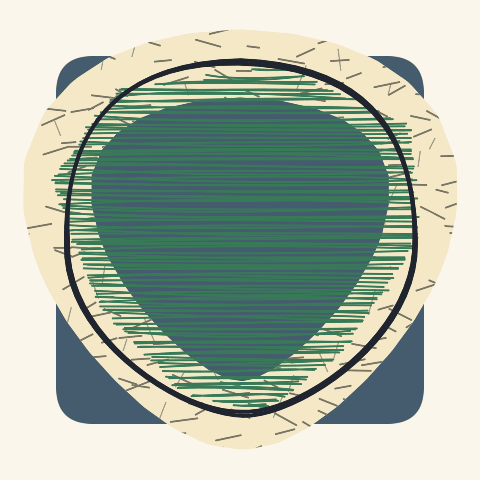
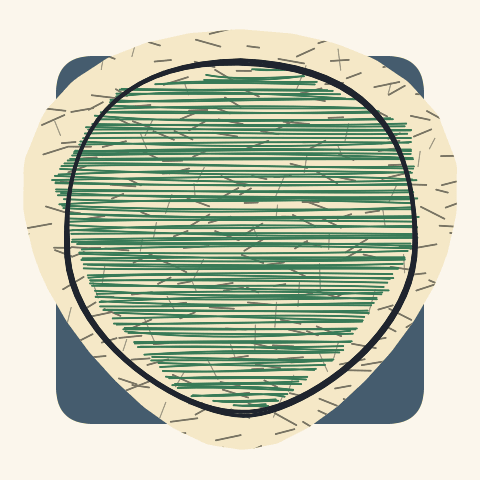
Close fully smooth sticker sheets at the join
Continuous eggs and ellipses return to their start without a Close
operation. The backing stroked that loop as an open ribbon, so the
caps met on the right edge and left an inward notch. A contour that
meets itself is now a filled sheet. Fully smooth offsets along the
normal, and the preview egg checks that the right edge does not dip.

Changed region(s): [[0.1875, 0.1875, 0.8125, 0.8125], [0.875, 0.5, 0.9062, 0.5312], [0.8125, 0.5312, 0.8438, 0.5625]]

diff --git a/Tests/SketchyTests/Rendering/StickerBackingTests.swift b/Tests/SketchyTests/Rendering/StickerBackingTests.swift
@@ -319,6 +319,64 @@ final class StickerBackingTests: XCTestCase {
         XCTAssertEqual(isolatedFacets(turningSamples(try backedStar(.fullySmooth()), spacing: 6)), 0)
     }
 
+    /// The fully smooth preview egg grew an inward bite on the right edge,
+    /// at the cubic seam. A narrow radial dip there must stay gone.
+    func testFullySmoothEggHasNoRightSideNotch() throws {
+        var options = Options()
+        options.roughness = 1.45
+        options.maxRandomnessOffset = 2.4
+        options.bowing = 1
+        options.seed = 17
+        options.strokeWidth = 2
+        options.fillStyle = .hachure
+        options.fillAngle = 0
+        options.fillSpacing = 3
+        options.stickerBacking = StickerBacking(width: 22, smoothness: 1, edge: .fullySmooth())
+        let size = CGSize(width: 240, height: 300)
+        let shape = EggShape(x: 100, y: 112, width: 86, height: 124, tilt: 0.42)
+        let drawing = try drawing(shape, options: options, size: size)
+        let commands = SwiftUIRenderer().commands(for: drawing, options: options, in: size)
+        let paper = try XCTUnwrap(commands.first)
+        guard case .fill = paper.style else {
+            return XCTFail("fully smooth egg should be a filled sheet, not an open ribbon with a cap seam")
+        }
+        let path = paper.path
+        let dip = narrowRadialDip(path, shoulder: 0.18)
+        let reversal = rightSilhouetteReversal(path)
+        XCTAssertLessThan(dip, 1.25, "right-side notch is \(dip) points deep")
+        XCTAssertLessThan(reversal, 1.25, "right-edge shelf is \(reversal) points")
+        XCTAssertEqual(isolatedFacets(turningSamples(path, spacing: 4)), 0)
+    }
+
+    /// Fully smooth compound shapes keep an open hole and a continuous outer edge.
+    func testFullySmoothCompoundKeepsHoleAndContinuousEdge() throws {
+        var options = Options()
+        options.roughness = 1.2
+        options.seed = 9
+        options.strokeWidth = 2
+        options.fill = .clear
+        options.stickerBacking = StickerBacking(width: 12, smoothness: 0.9, edge: .fullySmooth())
+        let size = CGSize(width: 180, height: 180)
+        let shape = Sketchy.Path(d: "M16 16 H144 V144 H16 Z M50 50 H110 V110 H50 Z")
+        let drawing = try drawing(shape, options: options, size: size)
+        let commands = SwiftUIRenderer().commands(for: drawing, options: options, in: size)
+        let paper = try XCTUnwrap(commands.first)
+        guard case .fill = paper.style else {
+            return XCTFail("fully smooth compound backing should be one filled sheet")
+        }
+        XCTAssertNil(commands.first?.clipPath)
+        XCTAssertGreaterThan(elementKinds(paper.path).curves, 8)
+        let bounds = paper.path.boundingRect
+        let hole = CGPoint(x: bounds.midX, y: bounds.midY)
+        XCTAssertFalse(paper.path.cgPath.contains(hole, using: .evenOdd), "the compound hole should stay open")
+        XCTAssertTrue(
+            paper.path.cgPath.contains(CGPoint(x: bounds.minX + 18, y: bounds.midY), using: .evenOdd)
+        )
+        let outer = firstSubpath(paper.path)
+        XCTAssertEqual(isolatedFacets(turningSamples(outer, spacing: 6)), 0)
+        XCTAssertLessThan(rightSilhouetteReversal(outer), 2.5)
+    }
+
     func testTextureIsSeededClippedAndOptional() throws {
         let size = CGSize(width: 180, height: 160)
         var options = cleanOptions()
@@ -525,6 +583,121 @@ final class StickerBackingTests: XCTestCase {
             }
         }
         return (lines, curves)
+    }
+
+    private func firstSubpath(_ path: SwiftUI.Path) -> SwiftUI.Path {
+        var subpath = SwiftUI.Path()
+        var started = false
+        var done = false
+        path.cgPath.applyWithBlock { element in
+            if done { return }
+            let values = element.pointee.points
+            switch element.pointee.type {
+            case .moveToPoint:
+                if started {
+                    done = true
+                    return
+                }
+                subpath.move(to: values[0])
+                started = true
+            case .addLineToPoint:
+                subpath.addLine(to: values[0])
+            case .addQuadCurveToPoint:
+                subpath.addQuadCurve(to: values[1], control: values[0])
+            case .addCurveToPoint:
+                subpath.addCurve(to: values[2], control1: values[0], control2: values[1])
+            case .closeSubpath:
+                subpath.closeSubpath()
+                done = true
+            default:
+                break
+            }
+        }
+        return subpath
+    }
+
+    /// How far a sample sits inside both nearby shoulders. A broad valley
+    /// stays near 0. A narrow inward notch, such as the egg's right-edge cusp, does not.
+    private func narrowRadialDip(_ path: SwiftUI.Path, shoulder: CGFloat) -> CGFloat {
+        let points = resampled(path.cgPath, spacing: 3)
+        guard points.count >= 12 else { return 0 }
+        let center = points.reduce(CGPoint.zero) { partial, point in
+            CGPoint(x: partial.x + point.x, y: partial.y + point.y)
+        }
+        let count = CGFloat(points.count)
+        let origin = CGPoint(x: center.x / count, y: center.y / count)
+        let polar = points.map { point -> (angle: CGFloat, radius: CGFloat) in
+            (
+                atan2(point.y - origin.y, point.x - origin.x),
+                hypot(point.x - origin.x, point.y - origin.y)
+            )
+        }
+        func radius(near angle: CGFloat) -> CGFloat {
+            var best = polar[0]
+            var bestGap = CGFloat.greatestFiniteMagnitude
+            for sample in polar {
+                var gap = abs(sample.angle - angle)
+                if gap > .pi { gap = 2 * .pi - gap }
+                if gap < bestGap {
+                    bestGap = gap
+                    best = sample
+                }
+            }
+            return best.radius
+        }
+        var worst: CGFloat = 0
+        for sample in polar where abs(sample.angle) < 0.55 {
+            let left = radius(near: sample.angle - shoulder)
+            let right = radius(near: sample.angle + shoulder)
+            let dip = min(left, right) - sample.radius
+            worst = max(worst, dip)
+        }
+        return worst
+    }
+
+    /// Outward step of the right silhouette away from its single widest point.
+    /// A convex cutout is unimodal in x. The egg's seam shelf rises again after the peak.
+    private func rightSilhouetteReversal(_ path: SwiftUI.Path) -> CGFloat {
+        let points = resampled(path.cgPath, spacing: 2)
+        guard points.count >= 12 else { return 0 }
+        let origin = points.reduce(CGPoint.zero) { partial, point in
+            CGPoint(x: partial.x + point.x, y: partial.y + point.y)
+        }
+        let count = CGFloat(points.count)
+        let center = CGPoint(x: origin.x / count, y: origin.y / count)
+        let right = points.filter { $0.x > center.x + 6 }
+        guard right.count >= 8 else { return 0 }
+        let minY = right.map(\.y).min() ?? 0
+        let maxY = right.map(\.y).max() ?? 0
+        let bin: CGFloat = 3
+        var silhouette: [CGFloat] = []
+        var y = minY
+        while y <= maxY {
+            let band = right.filter { abs($0.y - y) <= bin * 0.5 }
+            if let edge = band.map(\.x).max() {
+                silhouette.append(edge)
+            }
+            y += bin
+        }
+        guard silhouette.count >= 5, let peak = silhouette.indices.max(by: { silhouette[$0] < silhouette[$1] }) else {
+            return 0
+        }
+        var worst: CGFloat = 0
+        var low = silhouette[peak]
+        if peak + 1 < silhouette.count {
+            for index in (peak + 1)..<silhouette.count {
+                low = min(low, silhouette[index])
+                worst = max(worst, silhouette[index] - low)
+            }
+        }
+        low = silhouette[peak]
+        if peak > 0 {
+            for index in stride(from: peak - 1, through: 0, by: -1) {
+                low = min(low, silhouette[index])
+                worst = max(worst, silhouette[index] - low)
+            }
+        }
+        return worst
     }
 
     /// A kink with straight neighbors is a polygon vertex. A smooth curve is not.

diff --git a/Sources/Sketchy/Render/StickerBackingBuilder.swift b/Sources/Sketchy/Render/StickerBackingBuilder.swift
@@ -201,16 +201,29 @@ enum StickerBackingBuilder {
             let signed = nestingDepth(index, in: rings).isMultiple(of: 2) ? outward : -outward
             let coverageBase = line.source.count >= 3 ? line.source : line.points
             let coverage = offsetClosed(coverageBase, by: signed)
-            var source = line.points
             if case .continuous(let radius) = finish {
-                source = continuousOutline(source, closed: true, radius: radius)
+                // Mitered edge intersections fold a concave sample into an
+                // inward spike. The egg's right-hand cubic join is that
+                // sample. Offset along the normal instead, then blur so the
+                // tangent stays continuous, including across the seam.
+                let smoothed = continuousOutline(line.points, closed: true, radius: radius)
+                var ring = normalOffset(smoothed, distance: signed)
+                let polish = radius > 0 ? min(18, max(12, radius * 0.5)) : 14
+                ring = continuousOutline(ring, closed: true, radius: polish)
+                // Blur before the coverage scale. A blur after the scale
+                // pulls the widest points back in and can uncover the art.
+                ring = continuousOutline(ring, closed: true, radius: 10)
+                if let coverage {
+                    ring = expandToCover(coverage, ring)
+                }
+                offsets.append(ring)
+                continue
             }
-            guard var ring = offsetClosed(source, by: signed) else {
+            guard var ring = offsetClosed(line.points, by: signed) else {
                 failed = true
                 break
             }
-            switch finish {
-            case .torn(let tear):
+            if case .torn(let tear) = finish {
                 ring = choppedOffset(
                     ring,
                     depth: tear.depth,
@@ -218,16 +231,6 @@ enum StickerBackingBuilder {
                     jaggedness: tear.jaggedness,
                     seed: tear.seed &+ UInt64(index)
                 )
-            case .continuous(let radius):
-                // A short pass removes the offset's miter nubs without
-                // pulling the margin back onto the ink.
-                let polish = radius > 0 ? min(10, max(5, radius * 0.3)) : 7
-                ring = continuousOutline(ring, closed: true, radius: polish)
-                if let coverage {
-                    ring = expandToCover(coverage, ring)
-                }
-            case .corners:
-                break
             }
             offsets.append(ring)
         }
@@ -741,6 +744,20 @@ enum StickerBackingBuilder {
         return scaled(high * 1.02)
     }
 
+    /// Moves each sample along its outward normal. Unlike a miter join, a
+    /// concave sample stays on the outside of the curve instead of folding in.
+    private static func normalOffset(_ points: [CGPoint], distance: CGFloat) -> [CGPoint] {
+        let ring = clean(points, dropClosingDuplicate: true)
+        guard ring.count >= 3 else { return points }
+        let normals = outwardNormals(ring, closed: true)
+        return zip(ring, normals).map { point, normal in
+            CGPoint(
+                x: point.x + normal.x * distance,
+                y: point.y + normal.y * distance
+            )
+        }
+    }
+
     /// Puts the blurred ring back at the source ring's average size.
     private static func restoreMeanRadius(_ points: [CGPoint], matching target: [CGPoint]) -> [CGPoint] {
         let origin = centroid(points)
@@ -807,7 +824,12 @@ enum StickerBackingBuilder {
                 wrapped = next
             }
             let hop = distance(points[cursor], points[wrapped])
-            if hop < 1e-4 { break }
+            if hop < 1e-4 {
+                // A repeated seam sample must not end the circular walk.
+                // Stopping here smooths only one side of the join and leaves a cusp.
+                cursor = wrapped
+                continue
+            }
             traveled += hop
             if traveled > radius { break }
             add(wrapped, traveled)
@@ -966,6 +988,12 @@ enum StickerBackingBuilder {
         }
         if !closed, let last = source.last, distance(result[result.count - 1], last) > spacing * 0.35 {
             result.append(last)
+        }
+        if closed, result.count >= 3 {
+            let gap = distance(result[result.count - 1], result[0])
+            if gap < spacing * 0.45 {
+                result.removeLast()
+            }
         }
         return result.count >= 2 ? result : points
     }
@@ -1327,9 +1355,23 @@ private final class PathWalker {
     }
 
     func finishOpen() {
-        if current.count >= 2 {
-            pieces.append(.init(points: current, closed: false))
+        guard current.count >= 2 else {
+            current = []
+            return
         }
+        // Continuous eggs and ellipses return to the start point without a
+        // Close operation. Stroking that as an open ribbon leaves two caps
+        // at the join, which reads as a notch. A contour that meets itself
+        // is a sheet.
+        if current.count >= 3, let first = current.first, let last = current.last {
+            let gap = hypot(last.x - first.x, last.y - first.y)
+            if gap <= 1.25 {
+                pieces.append(.init(points: current, closed: true))
+                current = []
+                return
+            }
+        }
+        pieces.append(.init(points: current, closed: false))
         current = []
     }
 

diff --git a/Tests/SketchyTests/Rendering/StickerBackingPreviewTests.swift b/Tests/SketchyTests/Rendering/StickerBackingPreviewTests.swift
@@ -33,6 +33,7 @@ final class StickerBackingPreviewTests: XCTestCase {
         try write(edgeModes, name: "sticker-egg-fully-smooth.png", width: 1040, height: 520, to: directory)
         try write(fullEgg, name: "sticker-fully-smooth-egg-closeup.png", width: 760, height: 900, to: directory)
         try write(starModes, name: "sticker-fully-smooth-star.png", width: 860, height: 520, to: directory)
+        try write(smoothCompound, name: "sticker-fully-smooth-compound.png", width: 860, height: 520, to: directory)
     }
 
     private var starCard: some View {
@@ -304,6 +305,30 @@ final class StickerBackingPreviewTests: XCTestCase {
                     .frame(width: 240, height: 300)
                     .scaleEffect(2.15)
                     .frame(width: 640, height: 700)
+            }
+            .frame(maxWidth: .infinity)
+        }
+    }
+
+    private var smoothCompound: some View {
+        sizedCard("Fully smooth compound. Hole stays open. Corner-preserving shown beside it.", width: 860, height: 520) {
+            HStack(alignment: .top, spacing: 36) {
+                VStack(spacing: 8) {
+                    donut(backing: StickerBacking(width: 14, smoothness: 0.9, edge: .smooth))
+                        .frame(width: 220, height: 220)
+                        .frame(width: 300, height: 320)
+                    Text("Corner-preserving")
+                        .font(.system(size: 16, weight: .medium))
+                        .foregroundStyle(Color(white: 0.93))
+                }
+                VStack(spacing: 8) {
+                    donut(backing: StickerBacking(width: 14, smoothness: 0.9, edge: .fullySmooth()))
+                        .frame(width: 220, height: 220)
+                        .frame(width: 300, height: 320)
+                    Text("Fully smooth")
+                        .font(.system(size: 16, weight: .medium))
+                        .foregroundStyle(Color(white: 0.93))
+                }
             }
             .frame(maxWidth: .infinity)
         }

diff --git a/Tests/SketchyTests/Docs/DocExamplesStickers.swift b/Tests/SketchyTests/Docs/DocExamplesStickers.swift
@@ -195,7 +195,7 @@ extension DocExampleCatalog {
                 .strokeWidth(2)
                 .seed(17)
                 .stickerBacking(width: 22, smoothness: 1, edge: .fullySmooth())
-                .egg(tilt: 0.42)
+                .draw(EggShape(x: 92, y: 98, width: 72, height: 104, tilt: 0.42))
             """,
             picture: .stickerMat
         ) {
@@ -208,7 +208,7 @@ extension DocExampleCatalog {
                 .strokeWidth(2)
                 .seed(17)
                 .stickerBacking(width: 22, smoothness: 1, edge: .fullySmooth())
-                .egg(tilt: 0.42)
+                .draw(EggShape(x: 92, y: 98, width: 72, height: 104, tilt: 0.42))
         }
     ]
 }

diff --git a/DOCUMENTATION.md b/DOCUMENTATION.md
@@ -1102,7 +1102,7 @@ Color alone, grain on white, or both:
 
 `.strokeContinuity(.legacy)` draws rectangles and polygons as open edge strokes, so the backing is a ribbon along each edge. Use `.continuous` (the default) for a die-cut sheet.
 
-`.smooth` draws curves between real corners, so star points and rectangle corners stay sharp. A sampled egg can still show those corners. `.fullySmooth()` or `.fullySmooth(radius:)` is a separate choice: the tangent stays continuous all the way around, including the closed seam, and silhouette corners are rounded. `radius` `0` picks a length from the outline that removes sampled facets. `.torn` keeps the chopped straight facets. `smoothness` still only chooses the rough outline or the input silhouette. The offset still uses a clamped miter: a miter longer than about 3.2 times the margin is beveled. A notch tighter than the margin, or a torn edge that would cross itself, does not emit a self-intersecting fill. Tear depth is reduced first. If the offset still crosses, that closed contour falls back to a round dilation (filled centerline plus a round stroke). Grain on that fallback clips to the interior; the dilation stroke stays flat.
+`.smooth` draws curves between real corners, so star points and rectangle corners stay sharp. A sampled egg can still show those corners. `.fullySmooth()` or `.fullySmooth(radius:)` is a separate choice: the tangent stays continuous all the way around, including the closed seam, and silhouette corners are rounded. `radius` `0` picks a length from the outline that removes sampled facets. That mode offsets along the outward normal and then blurs, so a concave sample cannot fold into an inward notch. `.smooth` and `.torn` still use a clamped miter: a miter longer than about 3.2 times the margin is beveled. `.torn` keeps the chopped straight facets. `smoothness` still only chooses the rough outline or the input silhouette. A continuous outline that returns to its start, including an egg or ellipse with no explicit close, is a filled sheet. A notch tighter than the margin, or a torn edge that would cross itself, does not emit a self-intersecting fill. Tear depth is reduced first. If the offset still crosses, that closed contour falls back to a round dilation (filled centerline plus a round stroke). Grain on that fallback clips to the interior; the dilation stroke stays flat.
 
 Crayon and watercolor paint after the sheet, so the paper shows past the mark. Wax grit and a wet fringe can extend past the nominal stroke. Give those brushes a larger `width` if the texture should stay on the paper.
 

diff --git a/docs/Examples.md b/docs/Examples.md
@@ -1164,7 +1164,7 @@ RoughView()
     .strokeWidth(2)
     .seed(17)
     .stickerBacking(width: 22, smoothness: 1, edge: .fullySmooth())
-    .egg(tilt: 0.42)
+    .draw(EggShape(x: 92, y: 98, width: 72, height: 104, tilt: 0.42))
 ```
 
 ## Seeding
